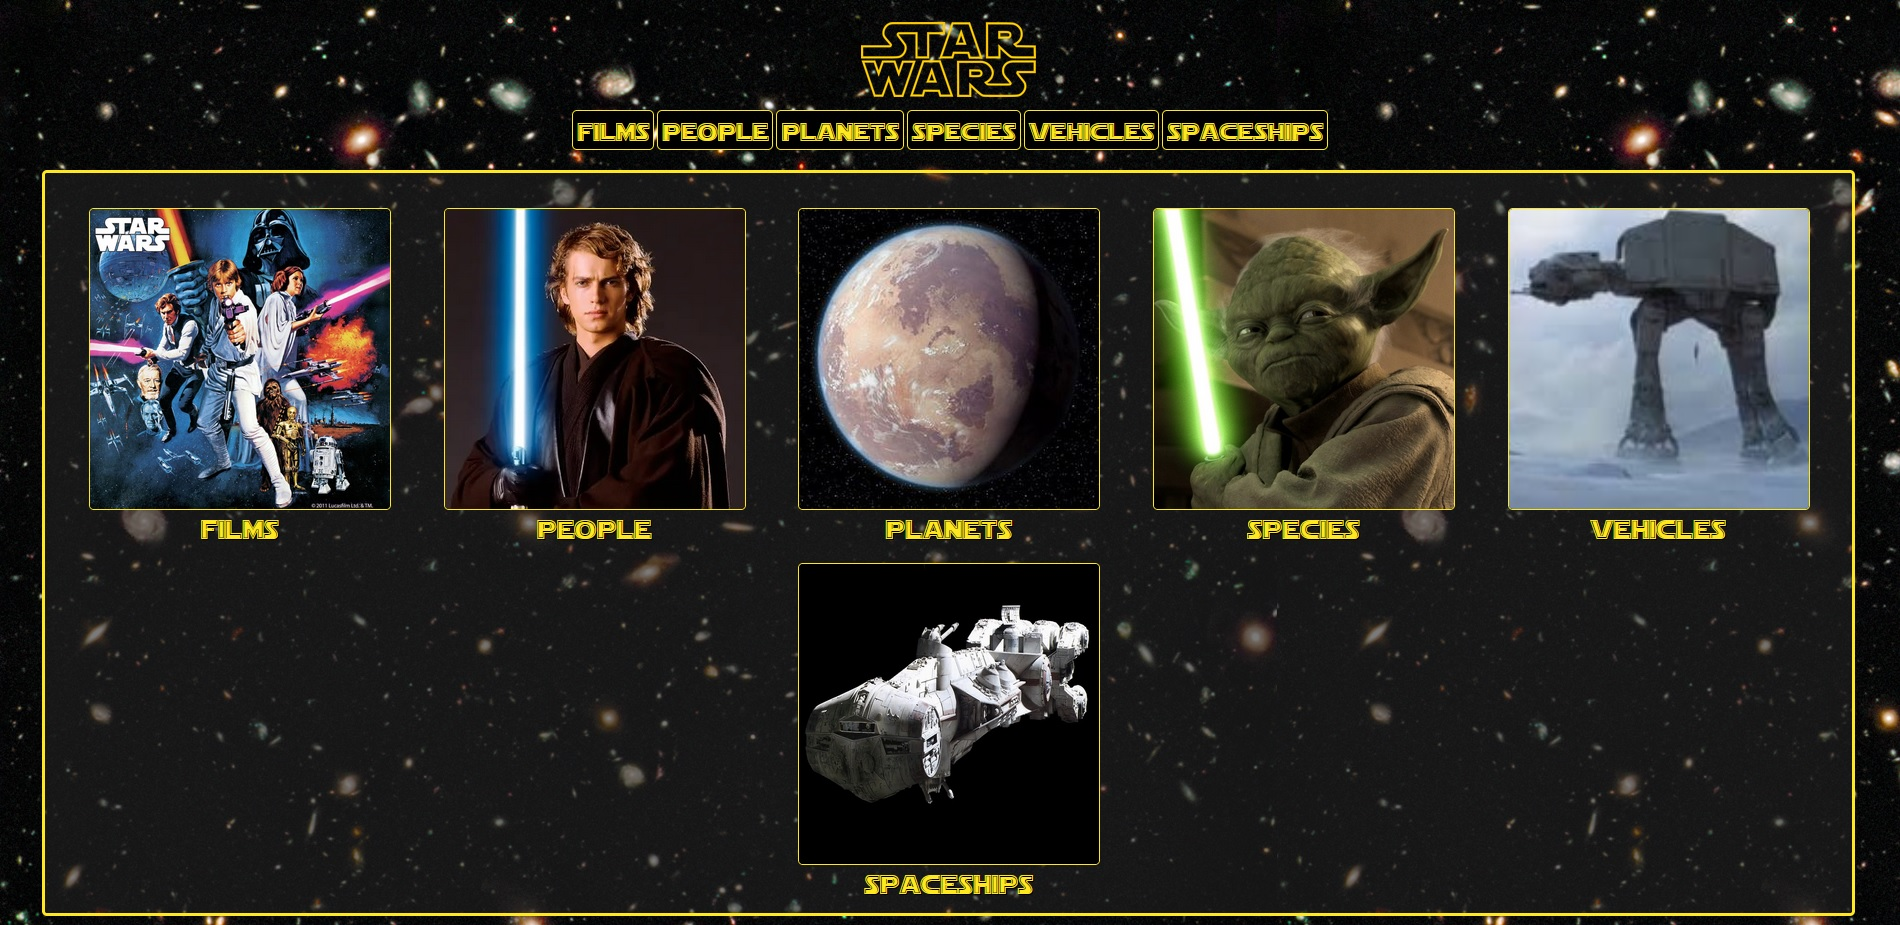
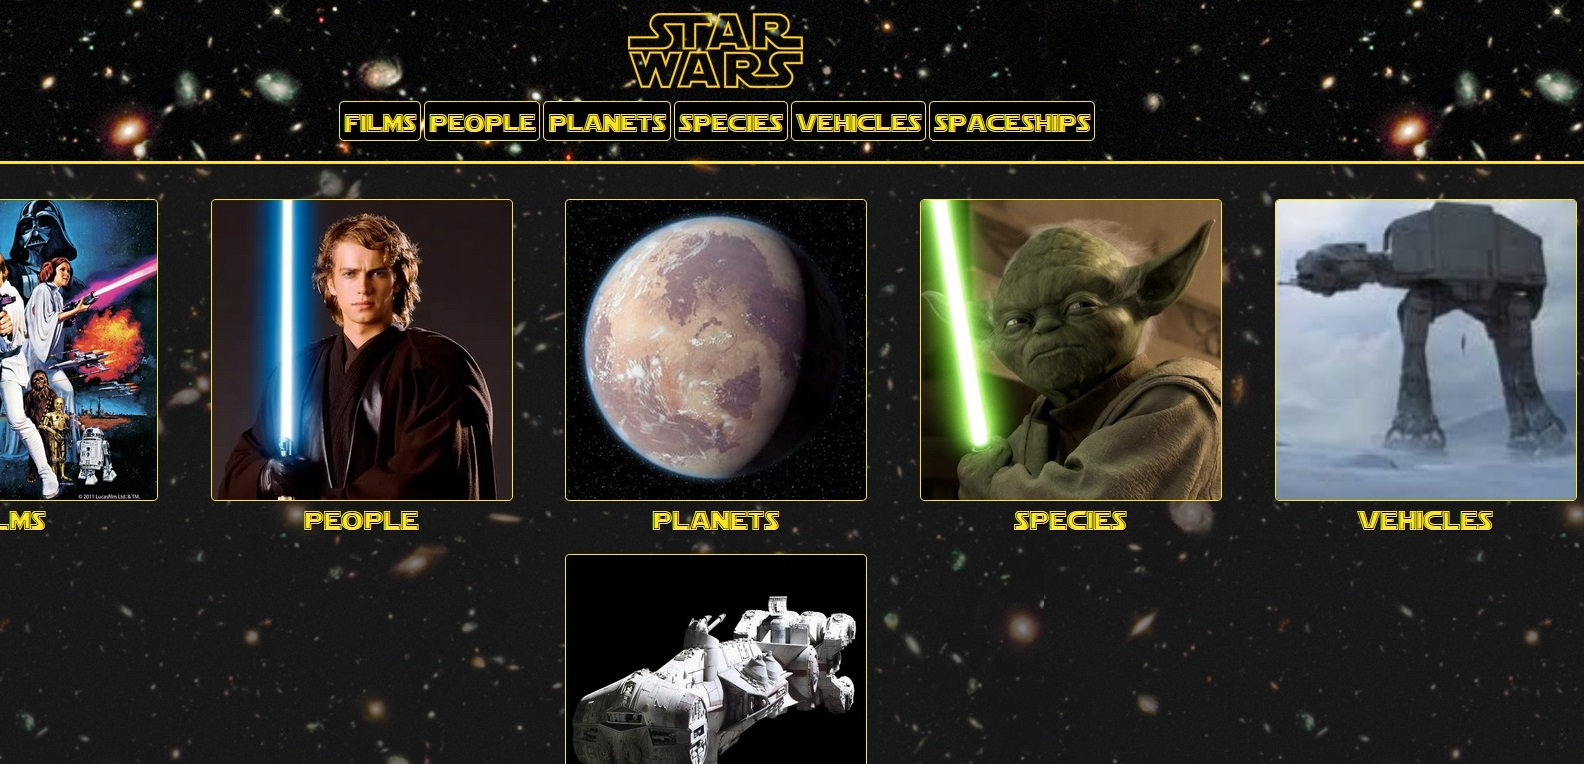
Projects no longer HardCoded. Now taking in consideration an internal json file.

diff --git a/assets/css/styles.css b/assets/css/styles.css
@@ -92,6 +92,7 @@ body{
 #welcome-section{
     height: 100vh;
     width: 100vw;
+    min-height: 600px;
     background-image: url(../img/background.jpg);
     margin-top: 40px;
     position: relative;
@@ -146,24 +147,25 @@ body{
     font-weight: bold;
     font-family: sans-serif;
 }
-#htmlcss{
+#projects-content{
   display: flex;
   flex-direction: column;
   justify-content: space-between;
   align-items: center;
   margin-top: 10px;
   }
-#htmlcss a{
+#projects-content a{
   width: 90%;
   aspect-ratio: 16/9;
   background-position: center;
+  background-position-y: top;
   position: relative;
   text-decoration: none;
   margin-bottom: 20px;
   border: var(--color4) solid var(--projects-border);
   border-radius: 10px;
 }
-#htmlcss p{
+#projects-content p{
   color: var(--color1);
   position: absolute;
   bottom: 2%;
@@ -215,6 +217,7 @@ align-items: center;
 #social-container a:hover{
   top: -10px;
 }
+
   
 
 
@@ -245,13 +248,13 @@ align-items: center;
 #welcome-section{
   margin-top: 35px;
 }
-#htmlcss{
+#projects-content{
   flex-direction: row;
   flex-wrap: wrap;
   justify-content: space-around;
   align-content: center;
 }
-#htmlcss a{
+#projects-content a{
   width: 44%;
 }
 #contact{
@@ -274,7 +277,7 @@ align-items: center;
   #navbar-buttons a{
     margin-right: 20px;
   }
-  #htmlcss a{
+  #projects-content a{
     width: 31%;
   }
   #contact{

diff --git a/index.html b/index.html
@@ -51,20 +51,7 @@
     </section>
 <section id="projects">
     <h1>PROJECTS:</h1>
-    <div id="htmlcss">
-      <a style="background-image: url(./assets/img/Product-Landing-Page.jpg);" href="https://andzheyevskiy.github.io/Product-Landing-Page/"><div id="html4" class="project-tile"></div>
-        <p>Product Landing Page</p>
-      </a>
-
-      <a style="background-image: url(./assets/img/HTML-Technical-Documentation.jpg);" href="https://andzheyevskiy.github.io/HTML-Technical-Documentation/">
-        <div id="html3" class="project-tile"></div>
-       <p>HTML Technical Documentation</p>
-      </a>
-      <a style="background-image: url(./assets/img/Kurt-Cobain-Tribute-Page.jpg);" href="https://andzheyevskiy.github.io/Kurt-Cobain-Tribute-Page/"><div id="html2" class="project-tile"></div>
-      <p>Kurt Cobain Tribute Page</p></a>
-    </a>
-    <a style="background-image: url(./assets/img/Survey-Form.jpg);" href="https://andzheyevskiy.github.io/Survey-Form/"><div id="html1" class="project-tile"></div>
-    <p>Survey Form </p></a>
+    <div id="projects-content">
     </div>
 </section>
 <section id="contact">
@@ -76,5 +63,7 @@
     <a target="_blank" id="linkedin-link" href="https://www.linkedin.com/in/igor-andzheyevskiy/"><img src="./assets/img/linkedin.png" alt="Linkedin"></a>
   </div>
 </section>
+
+<script src="./assets/js/main.js"></script>
 </body>
 </html>

diff --git a/assets/js/main.js b/assets/js/main.js
@@ -1,0 +1,22 @@
+// Link to the projects container
+const projects =document.getElementById("projects-content")
+
+
+// Fetch portfolio file
+async function getPortfolio() {
+    const response = await fetch("./assets/json/portfolio.json");
+    const portfolio = await response.json();
+    return portfolio
+  }
+
+// Post fetched conetent
+function postPortfoilio(portfolio){
+    for(let i=0; i<portfolio.projects.length; i++)
+    projects.innerHTML += "<a id='"+portfolio.projects[i].id+"' target='_blank' style='background-image: url(./assets/img/"+portfolio.projects[i].img+");' href='"+portfolio.projects[i].url+"'><p>"+portfolio.projects[i].name+"</p></a>"
+}
+
+  
+  
+
+//RUN FUNCTION//
+getPortfolio().then(data => postPortfoilio(data))
